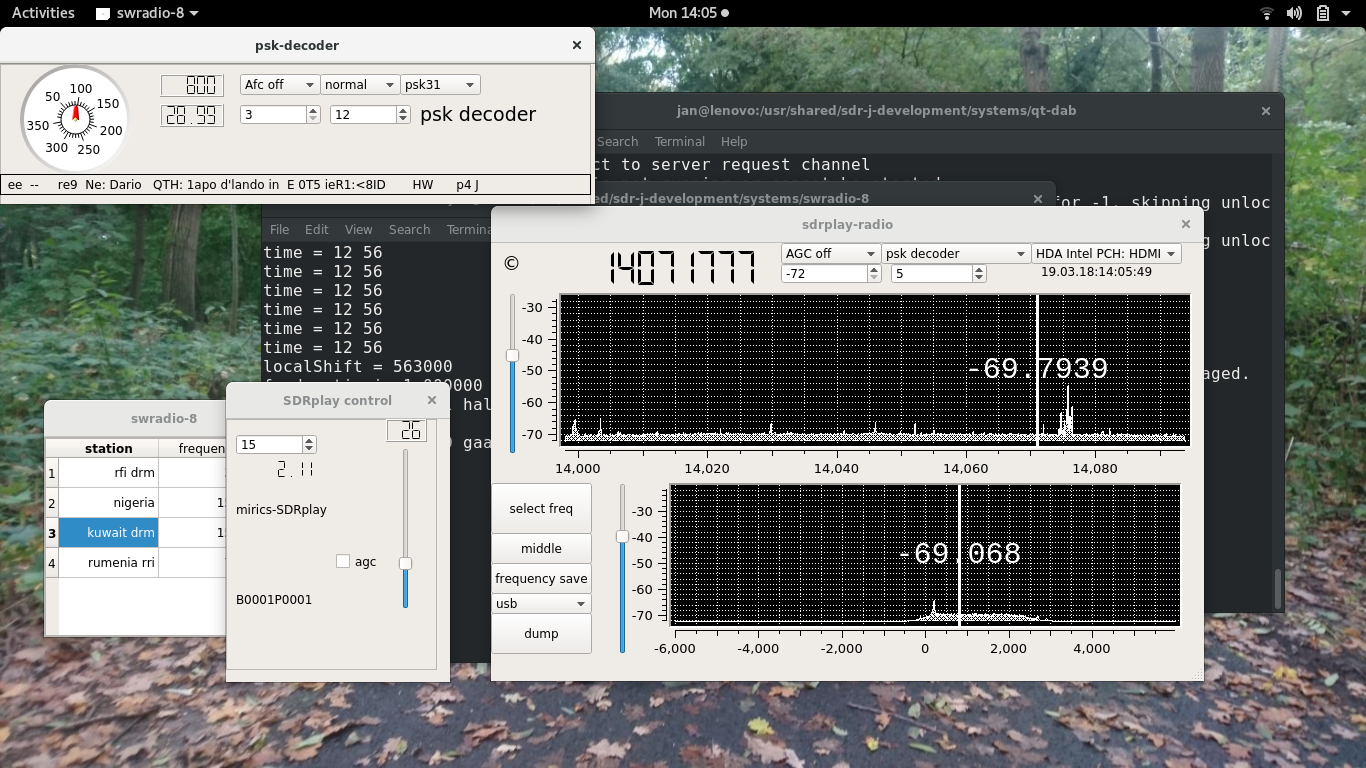
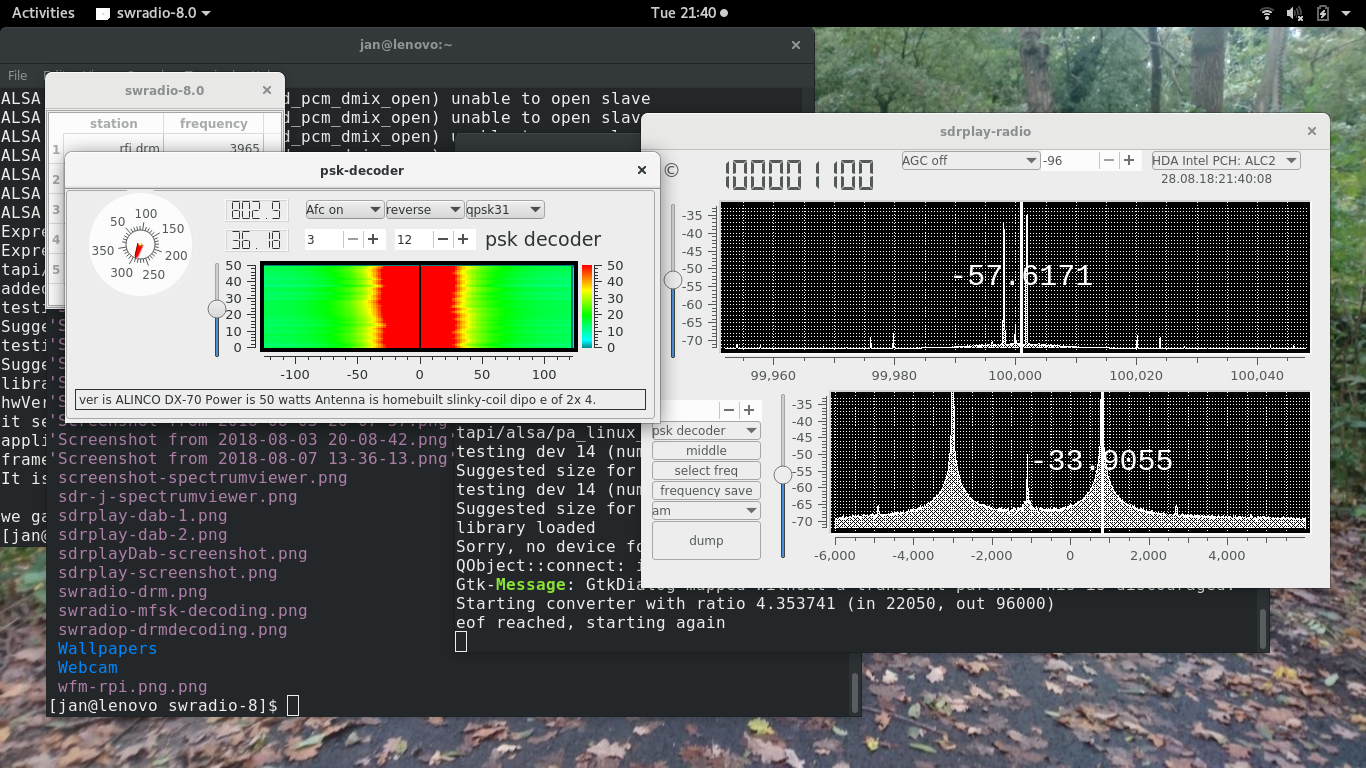
updated README

diff --git a/README.md b/README.md
@@ -62,7 +62,8 @@ to waterfall display (or vice-versa).
 **Decoders** are:
 * am
 * ssb, with selection for usb or lsb;
-* psk, with selection of a variety of modes and settings;
+* psk, with selection of a variety of modes and settings and a tuning aid,
+* mfsk, with a tuning aid,
 * rtty, with selection of a variety of modes and settings;
 * cw, with (almost) automatic selection of speed;
 * drm, limited to 10 k bandwidth;
@@ -123,6 +124,7 @@ Select - or deselect - decoders:
 * CONFIG          += rtty-decoder
 * CONFIG          += fax-decoder
 * CONFIG          += drm-decoder
+* CONFIG          += mfsk-decoder
 
 The "DESTDIR" parameter in the unix section in the ".pro" file tells where the result is to be put.
 
@@ -140,7 +142,17 @@ included, one has to obtain that from SDRplay.com
 --------------------------------------------------------------------------
 
 ![swradio-8](/swradio-psk.png?raw=true)
-Example of use of the psk decoder.
+Example of use of the psk decoder. The psk decoder now is equipped with
+a small "scope" as an aid in tuning. Clicking on a positionin the
+psk window will shift the frequency such that that point is in the middle.
+
+--------------------------------------------------------------------------
+--------------------------------------------------------------------------
+
+![swradio-8](/swradio-mfsk.png?raw=true)
+Example of use of the mfsk decoder. The psk decoder now is equipped with
+a small "scope" as an aid in tuning. Clicking on a positionin the
+psk window will shift the frequency such that that point is on the mark.
 
 --------------------------------------------------------------------------
 --------------------------------------------------------------------------
